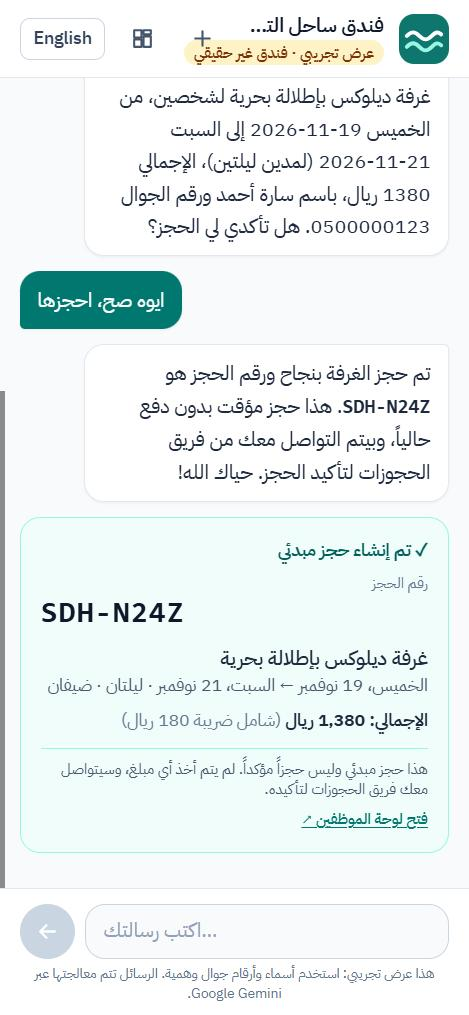
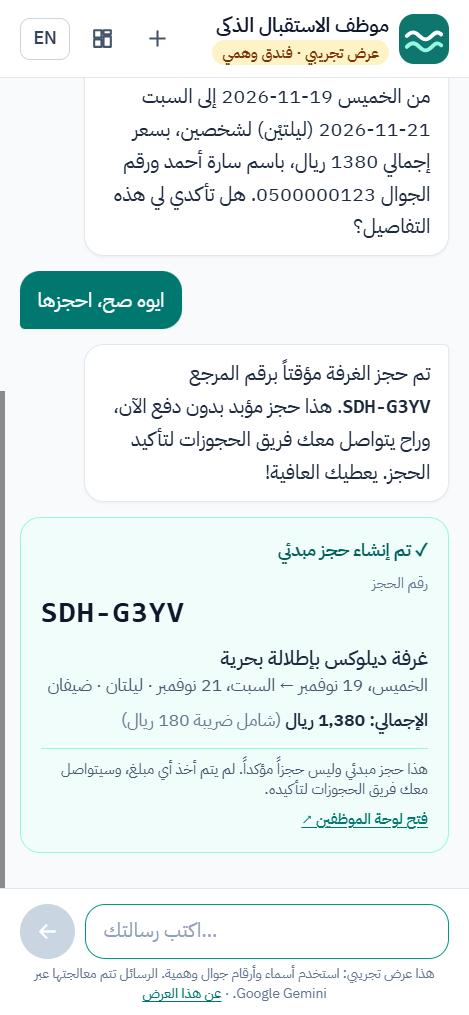
feat: rename to AI Receptionist, Seaside Demo Hotel; no guessing party size
- Product name is now "AI Receptionist"; the fictional hotel is
  "Seaside Demo Hotel" (keeps the SDH- booking prefix meaningful).
- Header fits at 375 px in Arabic: shorter language button and badge,
  badges truncate instead of sliding under the buttons.
- Prompt: never guess the number of guests before checking availability
  (an eval rerun caught a check for 1 guest). Evals 25/25 again.
- New screenshots and link-preview image with the new name.

diff --git a/src/i18n/strings.ts b/src/i18n/strings.ts
@@ -16,14 +16,14 @@ export const STARTER_PROMPTS = [
 ];
 
 const en = {
-  pageTitle: "Sahil Demo Hotel · AI receptionist (demo)",
-  hotelName: "Sahil Demo Hotel",
-  city: "Jeddah",
+  pageTitle: "AI Receptionist · Seaside Demo Hotel (demo)",
+  productName: "AI Receptionist",
   demoBadge: "Demo · fictional hotel",
-  switchLanguage: "العربية",
+  switchLanguage: "عربي",
+  switchLanguageLabel: "Switch to Arabic",
   newChat: "New chat",
   welcome:
-    "Hello! I'm the hotel's AI receptionist. I can answer questions, check which rooms are free and hold a booking for you. Write in Arabic, English or both.",
+    "Hello! I'm the AI receptionist of Seaside Demo Hotel in Jeddah. I can answer questions, check which rooms are free and hold a booking for you. Write in Arabic, English or both.",
   startersLabel: "Try one of these",
   privacyNote: "Demo only: please use made-up names and phone numbers. Messages are processed by Google Gemini.",
   placeholder: "Type your message…",
@@ -129,14 +129,14 @@ const en = {
 type Strings = typeof en;
 
 const ar: Strings = {
-  pageTitle: "فندق ساحل التجريبي · موظف استقبال ذكي (عرض تجريبي)",
-  hotelName: "فندق ساحل التجريبي",
-  city: "جدة",
-  demoBadge: "عرض تجريبي · فندق غير حقيقي",
-  switchLanguage: "English",
+  pageTitle: "موظف الاستقبال الذكي · فندق الشاطئ التجريبي (عرض تجريبي)",
+  productName: "موظف الاستقبال الذكي",
+  demoBadge: "عرض تجريبي · فندق وهمي",
+  switchLanguage: "EN",
+  switchLanguageLabel: "التبديل إلى الإنجليزية",
   newChat: "محادثة جديدة",
   welcome:
-    "أهلاً وسهلاً! أنا موظف الاستقبال الذكي في الفندق. أقدر أجاوب على أسئلتك، وأشوف لك الغرف المتاحة، وأسوي لك حجز مبدئي. اكتب بالعربي أو الإنجليزي أو الاثنين مع بعض.",
+    "أهلاً وسهلاً! أنا موظف الاستقبال الذكي في فندق الشاطئ التجريبي بجدة. أقدر أجاوب على أسئلتك، وأشوف لك الغرف المتاحة، وأسوي لك حجز مبدئي. اكتب بالعربي أو الإنجليزي أو الاثنين مع بعض.",
   startersLabel: "جرّب واحدة من هذي",
   privacyNote: "هذا عرض تجريبي: استخدم أسماء وأرقام جوال وهمية. الرسائل تتم معالجتها عبر Google Gemini.",
   placeholder: "اكتب رسالتك…",

diff --git a/src/components/Header.tsx b/src/components/Header.tsx
@@ -13,18 +13,18 @@ export function Header({ label, wide, children }: { label?: string; wide?: boole
 
   return (
     <header className="sticky top-0 z-10 border-b border-slate-200 bg-white/95 backdrop-blur">
-      <div className={`mx-auto flex items-center gap-3 px-4 py-2.5 ${wide ? "max-w-5xl" : "max-w-2xl"}`}>
+      <div className={`mx-auto flex items-center gap-2 px-4 py-2.5 sm:gap-3 ${wide ? "max-w-5xl" : "max-w-2xl"}`}>
         <img src="/favicon.svg" alt="" className="size-10 shrink-0 rounded-xl" />
         <div className="min-w-0 flex-1">
           <h1 className="truncate text-base leading-tight font-semibold text-slate-900">
-            {t.hotelName} · {t.city}
+            {t.productName}
           </h1>
           <div className="mt-0.5 flex flex-wrap gap-1.5">
-            <span className="rounded-full whitespace-nowrap bg-amber-100 px-2 py-0.5 text-xs font-medium text-amber-900">
+            <span className="max-w-full truncate rounded-full bg-amber-100 px-2 py-0.5 text-xs font-medium text-amber-900">
               {t.demoBadge}
             </span>
             {label && (
-              <span className="rounded-full whitespace-nowrap bg-teal-100 px-2 py-0.5 text-xs font-medium text-teal-900">
+              <span className="max-w-full truncate rounded-full bg-teal-100 px-2 py-0.5 text-xs font-medium text-teal-900">
                 {label}
               </span>
             )}
@@ -35,6 +35,8 @@ export function Header({ label, wide, children }: { label?: string; wide?: boole
           type="button"
           onClick={toggleLanguage}
           lang={language === "ar" ? "en" : "ar"}
+          aria-label={t.switchLanguageLabel}
+          title={t.switchLanguageLabel}
           className="shrink-0 rounded-lg border border-slate-300 px-2.5 py-1.5 text-sm font-medium text-slate-700 hover:bg-slate-100 focus-visible:outline-2 focus-visible:outline-teal-600"
         >
           {t.switchLanguage}

diff --git a/index.html b/index.html
@@ -11,7 +11,7 @@
     />
     <!-- Link previews on LinkedIn, WhatsApp, X and Slack. The image is public/og-image.png (1200x630). -->
     <meta property="og:type" content="website" />
-    <meta property="og:site_name" content="Sahil Demo Hotel" />
+    <meta property="og:site_name" content="AI Receptionist" />
     <meta property="og:title" content="An AI receptionist that speaks Saudi Arabic (demo)" />
     <meta
       property="og:description"
@@ -29,7 +29,7 @@
       rel="stylesheet"
       href="https://fonts.googleapis.com/css2?family=IBM+Plex+Sans+Arabic:wght@400;500;600&display=swap"
     />
-    <title>Sahil Demo Hotel · AI receptionist (demo)</title>
+    <title>AI Receptionist · Seaside Demo Hotel (demo)</title>
   </head>
   <body>
     <div id="root"></div>

diff --git a/worker/ai/system-prompt.ts b/worker/ai/system-prompt.ts
@@ -95,6 +95,7 @@ ${resolvedDatePhrases(today)}
 
 # Booking (a hold only)
 1. Find out check-in, check-out (or number of nights), number of guests, and room type if they have a preference. Ask only for what is missing.
+   Never guess the number of guests: if the guest hasn't said how many people, ask before checking availability.
 2. Call check_availability. Offer the options with the total price (and the number of rooms if more than one). If nothing is free, suggest other dates.
 3. When the guest chooses, ask for their full name and mobile number.
 4. Read back room, dates, nights, guests, total price, name and phone, and ask them to confirm.

diff --git a/worker/data/hotel-kb.ts b/worker/data/hotel-kb.ts
@@ -1,4 +1,4 @@
-// Knowledge base for Sahil Demo Hotel, Jeddah.
+// Knowledge base for Seaside Demo Hotel, Jeddah (fictional).
 //
 // THE HOTEL IS FICTIONAL. Every name, price and policy below is made up for this demo.
 //
@@ -12,8 +12,8 @@
 
 import type { Room } from "../../shared/types.ts";
 
-export const HOTEL_NAME_EN = "Sahil Demo Hotel, Jeddah";
-export const HOTEL_NAME_AR = "فندق ساحل التجريبي، جدة";
+export const HOTEL_NAME_EN = "Seaside Demo Hotel, Jeddah";
+export const HOTEL_NAME_AR = "فندق الشاطئ التجريبي، جدة";
 
 export const ROOM_TYPES: Room[] = [
   {

diff --git a/src/App.tsx b/src/App.tsx
@@ -14,8 +14,8 @@ export default function App() {
   useEffect(() => {
     document.documentElement.lang = language;
     document.documentElement.dir = language === "ar" ? "rtl" : "ltr";
-    document.title = isStaff ? `${t.staff.label} · ${t.hotelName}` : t.pageTitle;
-  }, [language, isStaff, t.pageTitle, t.staff.label, t.hotelName]);
+    document.title = isStaff ? `${t.staff.label} · ${t.productName}` : t.pageTitle;
+  }, [language, isStaff, t.pageTitle, t.staff.label, t.productName]);
 
   return isStaff ? <StaffDashboard /> : <GuestChat />;
 }

diff --git a/worker/integrations/n8n.test.ts b/worker/integrations/n8n.test.ts
@@ -36,7 +36,7 @@ describe("handoff webhook", () => {
     expect(JSON.parse(String(init?.body))).toEqual({
       event: "handoff.created",
       sentAt: "2026-11-12T09:00:01.000Z",
-      hotel: "Sahil Demo Hotel, Jeddah",
+      hotel: "Seaside Demo Hotel, Jeddah",
       dashboardUrl: "https://example.test/staff",
       ticket: TICKET,
     });

diff --git a/worker/domain/reference-code.ts b/worker/domain/reference-code.ts
@@ -1,4 +1,4 @@
-// Booking references such as "SDH-7K3Q" (SDH = Sahil Demo Hotel).
+// Booking references such as "SDH-7K3Q" (SDH = Seaside Demo Hotel).
 
 // No 0/O and no 1/I/L: those get mixed up when a code is read out on a call or typed from a screenshot.
 const ALPHABET = "ABCDEFGHJKMNPQRSTUVWXYZ23456789";

diff --git a/README.md b/README.md
@@ -1,15 +1,15 @@
-# Sahil Demo Hotel: bilingual AI receptionist (demo)
+# AI Receptionist: a hotel front desk that speaks Saudi Arabic and English
 
 [![CI](https://github.com/MoJadalhaq/ai-assistant/actions/workflows/ci.yml/badge.svg)](https://github.com/MoJadalhaq/ai-assistant/actions/workflows/ci.yml) [![Live demo](https://img.shields.io/badge/demo-live-0f766e)](https://reception.jadalhaq.com) [![License: MIT](https://img.shields.io/badge/license-MIT-blue)](LICENSE)
 
-> **Demo, fictional hotel.** "Sahil Demo Hotel, Jeddah" does not exist. Every name, price, phone number and booking in this repository is made up.
+> **Demo, fictional hotel.** "Seaside Demo Hotel, Jeddah" does not exist. Every name, price, phone number and booking in this repository is made up.
 
 **Live demo:** [reception.jadalhaq.com](https://reception.jadalhaq.com) · staff dashboard: [reception.jadalhaq.com/staff](https://reception.jadalhaq.com/staff)
 
 An AI receptionist for a hotel in Jeddah that chats with guests in Saudi dialect (Hijazi, Najdi), formal Arabic, English, or a mix of them in one sentence. It answers questions from the hotel's knowledge base, checks which rooms are free, creates booking holds, and hands difficult conversations to staff with a summary in both languages. Staff see bookings and handoffs arrive on a live dashboard.
 
 <p align="center">
-  <img src="docs/images/chat-booking-ar.jpg" alt="A guest books a sea-view room in Hijazi Arabic; the chat shows the booking hold card with reference SDH-N24Z" width="300">
+  <img src="docs/images/chat-booking-ar.jpg" alt="A guest books a sea-view room in Hijazi Arabic; the chat shows the booking hold card with reference SDH-G3YV" width="300">
   &nbsp;
   <img src="docs/images/staff-dashboard.jpg" alt="The staff dashboard with a new high-priority complaint from the chat, summarised in English and Arabic" width="520">
 </p>
@@ -49,11 +49,14 @@ The model never touches the database. It calls four tools (`get_hotel_info`, `ch
 | Run (`gemini-3.5-flash-lite`) | Passed | Report |
 |---|---|---|
 | Baseline | 20/25 | [results-baseline.md](evals/results-baseline.md) |
-| After two prompt fixes | **25/25** | [results.md](evals/results.md) |
+| After the prompt fixes below | **25/25** | [results.md](evals/results.md) |
 
 What the baseline caught, and the fixes:
 - **Arabic replies to English guests** (3 cases). The guest's language is now detected in code and the prompt states it outright: "reply in English only".
 - **Wrong dates** for "الويكند الجاي" (next weekend) and "next Friday" (2 cases). The prompt now includes those dates already worked out, as it already did with a calendar.
+
+A later rerun caught one more:
+- **Guessing the party size.** Asked for "a suite for three nights from Thursday", the model checked availability for 1 guest before asking how many people were coming. The prompt now says never to guess the number of guests; the case then passed 3 runs out of 3, and the full suite 25/25.
 
 Earlier manual runs found two worse failures, now fixed in code and checked by every eval case:
 - **The model invented a booking reference.** Tool results had been put back into the history as text, and the model imitated that text instead of calling the tool. Earlier tool calls are now replayed in Gemini's own function-call format.

diff --git a/docs/PLAN.md b/docs/PLAN.md
@@ -1,6 +1,6 @@
-# Sahil Demo Hotel: AI Receptionist (project plan)
+# AI Receptionist (project plan)
 
-> Demo project. **Sahil Demo Hotel, Jeddah is fictional.** All names, prices, phone numbers and bookings in this repo are made up.
+> Demo project. **Seaside Demo Hotel, Jeddah is fictional.** (Called "Sahil Demo Hotel" until 2026-11-15.) All names, prices, phone numbers and bookings in this repo are made up.
 
 Status: **Phase 4 is done: the staff dashboard, the nightly reset and the optional handoff webhook are live. Firebase sign-in was left out for now (decision 23). Phase 6 is done too: README with screenshots and a diagram, ARCHITECTURE.md, and the demo-video script (docs/DEMO-VIDEO-SCRIPT.md). Phase 5 (voice, stretch) is optional and not started.** This file is the reference for decisions; it is updated when a decision changes.
 

diff --git a/ARCHITECTURE.md b/ARCHITECTURE.md
@@ -1,6 +1,6 @@
 # Architecture
 
-How the Sahil Demo Hotel receptionist works, and why it is built this way.
+How the AI Receptionist works, and why it is built this way.
 The hotel is fictional; see the [README](README.md) for what the demo does and how to run it.
 The full decision log is in [docs/PLAN.md](docs/PLAN.md).
 

diff --git a/evals/results.md b/evals/results.md
@@ -1,7 +1,7 @@
 # Eval results
 
 - **Model:** `gemini-3.5-flash-lite` (thinking: model default)
-- **Run:** 2026-11-11 21:59 UTC, 5.1 min, 61 model calls
+- **Run:** 2026-11-15 14:54 UTC, 5.2 min, 63 model calls
 - **Clock frozen at:** 2026-11-11T09:00:00Z (Wednesday, 12:00 Riyadh)
 - **Result: 25/25 cases passed**
 
